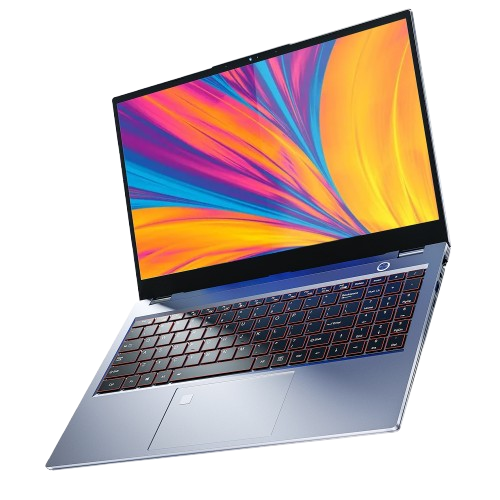
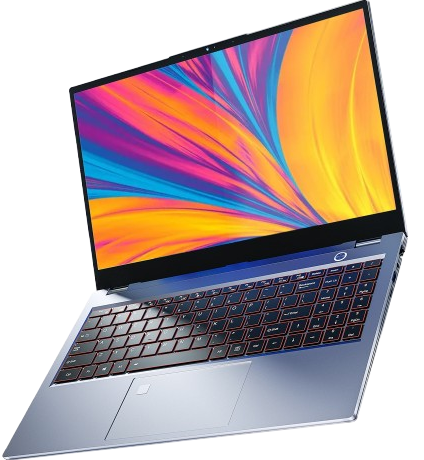
resize

diff --git a/src/assets/css/Product.css b/src/assets/css/Product.css
@@ -19,24 +19,7 @@
 
 /* Enhanced Product Card */
 
-/* Specific style for Fusion laptop image */
-.product-card-enhanced img[src*="LaptopFusion"] {
-  max-height: 80px !important; /* Adjust this value */
-  width: auto !important;
-  margin: 0 auto !important;
-  display: block !important;
-  object-fit: contain !important;
-}
 
-/* If you need to target the container too */
-.product-card-enhanced:has(img[src*="LaptopFusion"]) .product-image-container {
-  height: 160px !important;
-}
-
-/* Optional: If Fusion card has specific class */
-.fusion-product .product-image {
-  max-height: 80px !important;
-}
 .product-card-enhanced {
   background: linear-gradient(135deg, #0a0a0a 0%, #1a1a1a 100%);
   border: 1px solid #383120;
@@ -76,8 +59,8 @@
 }
 
 .product-image {
-  width: 85%;
-  height: 85%;
+  width: 90%;
+  height: 70%;
   object-fit: contain;
   transition: all 0.5s ease;
   padding: 1rem;
